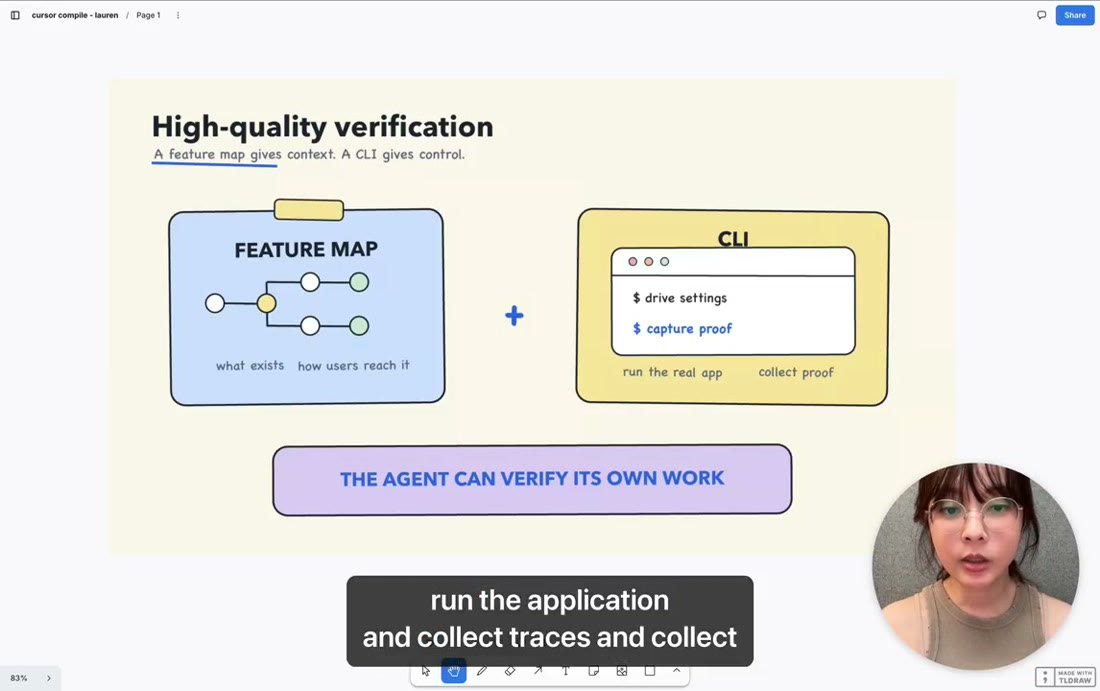
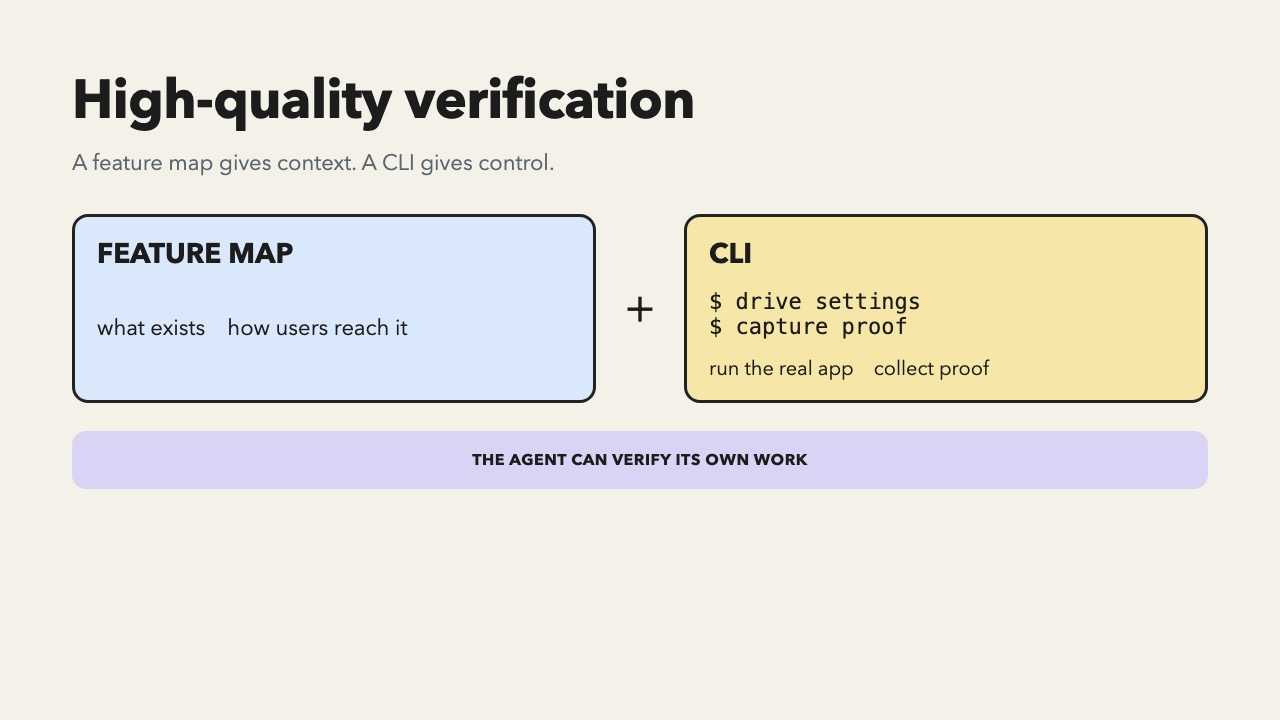
Poteto Paved Path: plain rewrite, and slides redrawn without the webcam.

diff --git a/wiki/Systems/Agentic Workflows/Poteto Paved Path.md b/wiki/Systems/Agentic Workflows/Poteto Paved Path.md
@@ -4,8 +4,9 @@ type: concept
 status: developing
 created: 2026-09-22
 updated: 2026-09-22
-description: "You trust an agent as far as you can leave it alone. A stronger prompt does not raise that trust. A file the next agent will copy, or a check that fails, does."
-method: page-generator-2026-09-22
+description: "Trust is how many agents you can leave alone. A harder prompt does not raise it. The codebase is the memory the next agent copies."
+method: plain-rewrite-2026-09-22
+prose-model: grok
 written-by: grok
 tags:
   - agents
@@ -16,173 +17,121 @@ tags:
 
 # Poteto Paved Path
 
-You can leave an agent alone only as far as you trust it. Trust grows when a file, or a check that fails the build, catches a mistake you would otherwise catch yourself. A stronger prompt does not grow that trust. The next agent opens the files. The next agent does not open the chat where you explained yourself more carefully.
-
-While you still have to watch every chat and correct it by hand, you can keep a handful of agents in front of you. Starting a large batch before a file or a check can reject a mistake spends the work on bad edits. Poteto Paved Path is the way up from that handful. Show that the result does the thing. Teach the method in a file the agent can load. Change the files so the easy edit is the correct one.
+Trust is how many agents you can leave alone. A harder prompt does not raise it, because the next agent opens the files and extends the pattern already there. The codebase is the memory.
 
 ## How do you trust an agent more?
 
-Verification comes first, then skills, then the arrangement of the files.
+Verification for correctness comes first. A feature map says what the app can do and how a person reaches it. A command runs the real app and saves the proof. Until those two exist, you are still the check.
 
-Verification answers a narrow question. Does the result do the thing a person came to do? A build that passes does not answer it. The agent needs a feature map and a command, kept beside the files. A feature map is a list of what a person can do, and how they reach each part, including which thing to click. A bug report is often a small picture and a few question marks. With the map, the agent can find the right part. Without the map, the agent can start the program and still guess. The command starts the real app and saves proof, a picture, a log, or a trace. A trace is a recording of where the app spent its time. The agent runs that same command every time. Until the map and the command exist, you are the person checking.
+High quality skills come next, and pstack is the example. The procedure lives in the repo, so the next session can load it. The agent can still skip it. You do not install pstack in order to copy someone else's pull-request count.
 
-Skills are written procedures the agent loads for a kind of job. pstack is a set of those procedures. One procedure says to reproduce the problem before changing anything, and to refuse to call the job done until the proof exists. A skill can still be skipped. A sentence you add to the prompt is easier to skip, and it is gone when the chat ends. A skill that lives with the files is there for the next agent. You do not install pstack in order to copy someone else's count of pull requests.
+Then you refactor the architecture so it is agent friendly. Agents like the shortcut, so the shortcut has to be the correct edit.
 
-Architecture comes third. Architecture means the way the files are arranged. An agent takes the short path. After you change the files, the short path is the path you left. The architecture work splits in two, and the split has two names.
+A greenfield program has no walls yet. The short edit becomes the structure, and the next agent copies it. Grok Bot started as that kind of prototype. Dune is what the app runs on now. Each kind of code has one folder and one job. A bad comment fails the build, because agents were treating the comment as permission to patch over the bug. A bad import fails the build.
 
-A brownfield program is an old program that already has walls. A new person cannot delete a live database. The folders already say where a change goes. A check already fails the build on a known mistake. An agent that copies those files stays inside the walls. Your work is to notice where agents still fall through, and to turn that fall into another wall.
+A brownfield program already has walls. A new person cannot delete the live database, and an agent that copies the files stays inside those walls. You add a wall where agents still fall through.
 
-A greenfield program is a new program with no walls yet. Each agent finishes an assignment by the shortest edit. The next agent copies that edit. The short edit becomes the structure of the program. Trust is hardest here, and this is also where you can still choose the structure before the copies spread. The Grok Bot app started this way, as a fast prototype. Agents like the shortcut, so the answer was to make the shortcut the correct edit. That answer is Dune, and Dune is what the Grok Bot app runs on now. Each kind of code has one folder and one job. A bad comment fails the build, because a comment had been read as permission to patch over a bug and the next agent copied both. A bad import fails the build. Dune is not published, and you do not need Dune's folder names. You can use the same answer without it. On a new program, you build the shortcut so that it is already the right edit. On an old program, you add a wall where agents keep taking the wrong shortcut.
-
-Someone has to stop a bad pattern before other agents copy it through the files. That job is called gardener. The spread is like weeds. One shortcut sends up copies, and the copies become the pattern. The slide gives the gardener three moves, in a row. Delete tech debt. Keep one paved path. Lint against anti-patterns. The lint can go in before the deletion is finished, so the spread stops while the cleanup is still going. The line under the boxes is "your team needs gardeners."
+A gardener stops the spread. It grows like weeds. You call it mold. The three moves are delete tech debt, keep one paved path, and lint against anti-patterns. Catch the mold while it is still one patch.
 
 ## Whenever you correct your agent
 
-The files are the best memory an agent has. An agent extends the pattern it already sees in those files. A workaround left in a file gets copied, and each copy makes the next copy more likely. A comment next to the workaround is read as a reason to keep it. You want the files in a state you would accept if the next agent copied them line for line.
+Put the correction as high on this list as it can go.
 
-When the same correction comes back, put it as high on this list as you can. The list is strongest at the top. A prompt is not on the list.
+1. Codebase. Change the files so the mistake cannot be written.
+2. Static analysis (lint/compiler/ci). Make the build fail.
+3. Rules/bugbot. A written rule can be skipped.
+4. Skills. A procedure in the repo can also be skipped.
+5. "Style guide." Only a person reading the change can apply it. A harder prompt lives here.
 
-1. Codebase. Change the files so the mistake cannot be written. One folder for that kind of change, or a shape of the data that has no room for the shortcut, is this step. The next agent copies the files, so the files are the correction.
+## Your code, and this wiki
 
-2. Static analysis, meaning a lint, the compiler, or CI. A lint is a check that reads the code and fails the build. The compiler is the tool that turns the code into a program and rejects code it cannot accept. CI is the set of checks that run when the code is pushed. You can add a lint before you have deleted every old copy. The lint stops the spread. Agents can then remove what the lint froze.
+The files you accept are the memory. A shortcut you leave is the pattern the next edit copies.
 
-3. Rules, and Bugbot. Bugbot is the reviewer that ships with Cursor, the editor the agent runs in, and Bugbot runs with the checks on a push. A written rule can be skipped. You can skip it too.
-
-4. Skills. A skill is a written procedure kept with the files, such as the pstack procedures above. The next agent can load it. The next agent can also skip it.
-
-5. "Style guide." The words are in quotes because only a person can apply a style guide, by reading the change and remembering to comment. When edits arrive faster than you can read every line, the guide does not hold the correction. A harder prompt lives here. It depends on you remembering it, and the next chat does not contain it.
-
-Start at the codebase. If you cannot change the files yet, make the build fail. Leave the style guide as the last place, not the first.
-
-## What you are taking from this
-
-The rule you are taking into your own code is that the codebase is the memory. The files you accept are what the next agent will extend. A shortcut you leave in those files is the pattern the next edit copies. You call that spread mold. The gardener's job, under your own name for it, is to catch the mold while it is still one patch, and to put the correction in the files or in a check before the copies take over.
-
-Your knowledge base is the same memory, in pages. The next session opens the wiki pages and extends the pattern already in them. A harder prompt about a wiki page does not enter those pages. A bad sentence you leave in place is the mold the next draft extends.
-
-On the list above, an accepted wiki page is the codebase. The two checks are the static analysis. One check rejects a sentence that points at a thing the wiki page never named. The other rejects a sentence that points at where the words came from, instead of saying what is true. Both checks live with the files, so both are still there when the chat is gone. A harder prompt is the style guide. It is the last place, and it is the place you already know does not hold. The checks do not know whether the wiki page is the explanation you meant. You still open the wiki page and read it. A wiki page is ready after you have read it.
-
-The pages you have already accepted, and those two checks, are the brownfield. A page you have not named is the greenfield. You name the page, and you say what it has to explain, before a draft starts. The model may draft the wiki page, add links to other pages, and add a log line. The model does not open the next wiki page for you, and the model does not start a wiki page you did not name. You are still the person who opens a wiki page to see whether the explanation is right, so you do not add a batch of agents while you are still that person.
+On this wiki, the pages you have already accepted are the brownfield, along with two checks. `scripts/holdings.py` rejects a sentence that points at something the page never named. `scripts/source-words-check.py` rejects a sentence that points at where the words came from. A page you have not named is the greenfield. You name it, you open it, and you read it. A bad sentence left in place is mold.
 
 ## Building a Michelin kitchen
 
-The picture for what happens after the files can hold an agent is a kitchen. The slide is titled "building a michelin kitchen / software factory." The factory half is the picture to drop. A factory sounds like output with nobody responsible for the plate. A Michelin kitchen is the picture to keep. You set the kitchen up. You are no longer cooking each part yourself. You are still responsible for what goes out.
+The picture for the outer loop is a Michelin kitchen, not a software factory. You still answer for the plate. You are no longer cooking each part yourself.
 
-The slide has three stations.
+Grok Bot is the line cook. It watches Slack, Sentry, Datadog, and PlanetScale, and starts the next station.
 
-Grok Bot is the line cook, one agent on one job. The slide marks it new. Grok Bot can call Slack, the team chat, and Sentry, Datadog, and PlanetScale. Sentry collects error reports. Datadog collects metrics. PlanetScale hosts a database. A routine, a saved watch inside Grok Bot, subscribes to a Slack thread or an error alert and starts the next station. You do not keep a second system that has memorized the company. The agent calls the tools.
+Cloud agents are a separate computer. They keep working after the laptop is closed and open a pull request.
 
-Cloud agents are the cooks at their own benches. A cloud agent is a separate computer. It copies a git repository, edits it, and opens a pull request. It keeps working after the laptop is closed.
+Automations and the Agent SDK are the team. They start agents from events, on the same skills.
 
-Automations and the Agent SDK are the team, the facility around the cooks. They start agents from events, on the same skills, without you opening each chat.
-
-This kitchen comes after a correction survives without you in the chat. A helper does not merge, and a helper does not write wiki pages. You merge code. You read pages. On the wiki you are not in that kitchen yet, because you are still the person who opens the page to see whether it is right.
+You are not in that kitchen on this wiki yet, because you still open the page. A helper does not merge. You merge.
 
 ## The slides
 
-The frames below are the slides, in the order they appear. Most of them still have the speaker in the corner. The words under each frame are the words on that slide.
+Redrawn from the deck, in order. The words on each slide are the words from the original.
 
 ### Agenda
 
-Trust. How to trust your agents more. Your codebase is memory. Automations.
-
-![Agenda: trust, how to trust your agents more, your codebase is memory, automations](poteto-slides/01-agenda.jpg)
+![Agenda](poteto-slides/01-agenda.jpg)
 
 ### Michelin kitchen
 
-The opening picture. The caption on screen is that a Michelin kitchen is the better analogy.
-
-![Michelin kitchen, a cook at a pass with small cooks at the stations](poteto-slides/02-michelin-kitchen.jpg)
+![Michelin kitchen](poteto-slides/02-michelin-kitchen.jpg)
 
 ### Five thousand pull requests
 
-Three contribution graphs, and the line "i shipped 5000+ PRs in 6 months."
-
-![Three contribution graphs and the caption i shipped 5000+ PRs in 6 months](poteto-slides/03-five-thousand-prs.jpg)
+![5000 plus PRs](poteto-slides/03-five-thousand-prs.jpg)
 
 ### Trust and the number of agents
 
-The vertical axis is trust. The horizontal axis is the number of agents: 1, 1 to 5, 5 to 10, 10 to 20, hundreds, thousands. The curve rises fast, then flattens.
-
-![A curve of trust against number of agents, rising fast then flattening](poteto-slides/04-trust-curve.jpg)
+![Trust curve](poteto-slides/04-trust-curve.jpg)
 
 ### How do I trust my agents more?
 
-Verification for correctness. High quality skills that teach agents to work like real software engineers, for example pstack. Refactoring or rewriting the architecture to be agent friendly, with the grey note "greenfield vs brownfield."
-
-![Three bullets: verification for correctness, skills such as pstack, and an agent-friendly architecture](poteto-slides/05-how-to-trust.jpg)
+![How do I trust my agents more](poteto-slides/05-how-to-trust.jpg)
 
 ### High-quality verification
 
-A feature map gives context. A CLI gives control. The map is what exists and how users reach it. The command line shows `$ drive settings` and `$ capture proof`, run the real app, collect proof. The result line is "THE AGENT CAN VERIFY ITS OWN WORK."
-
-![Feature map plus a CLI, and the line the agent can verify its own work](poteto-slides/06-feature-map.jpg)
+![Feature map and CLI](poteto-slides/06-feature-map.jpg)
 
 ### Whenever you correct your agent
 
-1. codebase. 2. static analysis (lint/compiler/ci). 3. rules/bugbot. 4. skills. 5. "style guide."
-
-![The five places a correction can go, codebase first and style guide last in quotes](poteto-slides/07-whenever-you-correct.jpg)
+![Whenever you correct your agent](poteto-slides/07-whenever-you-correct.jpg)
 
 ### Your codebase is memory
 
-One workaround, then arrows labeled copy, then the pattern. "Each copy makes the next copy likelier."
-
-![One workaround copied until it becomes the pattern](poteto-slides/08-codebase-is-memory.jpg)
+![Your codebase is memory](poteto-slides/08-codebase-is-memory.jpg)
 
 ### Gardeners
 
-Delete tech debt. Keep one paved path. Lint against anti-patterns. "your team needs gardeners."
-
-![Three boxes: delete tech debt, keep one paved path, lint against anti-patterns](poteto-slides/09-gardener.jpg)
+![Gardener](poteto-slides/09-gardener.jpg)
 
 ### Dune
 
-"Architecture for agent-sized context." "A narrow local edit can stay correct for the whole Electron app."
-
-![Dune, architecture for agent-sized context, beside the kitchen picture](poteto-slides/10-dune.jpg)
+![Dune](poteto-slides/10-dune.jpg)
 
 ### Five nouns
 
-Each noun has one place in the tree and one job at runtime. Feature, one owned folder for product UI. Entrypoint, one view a user can open. Transcript card, the feature-owned body for one entry type. Client, durable renderer state behind hooks and commands, marked one writer. Host, always-on behavior behind a typed contract.
-
-![Five nouns around a Dune app: Feature, Entrypoint, Transcript card, Client, Host](poteto-slides/11-five-nouns.jpg)
+![Five nouns](poteto-slides/11-five-nouns.jpg)
 
 ### Process boundaries
 
-A folder tells an agent where code runs and which imports are legal. The renderer holds Feature UI, Navigation, and Client. A typed edge sits in the middle. Serving processes hold Host extensions and Electron main.
-
-![Renderer on one side, a typed edge, and serving processes on the other](poteto-slides/12-process-boundaries.jpg)
+![Process boundaries](poteto-slides/12-process-boundaries.jpg)
 
 ### A feature adds files, not registry branches
 
-Reserved filenames turn the nearby folder into the complete contribution. Build discovers the files. Start validates one catalog. Open loads the view. A shared registry is crossed out. Two agents can add different feature folders without editing the same root. Above that, one writer per durable value, and stale attempts lose by key so a reconnect converges instead of duplicating.
-
-![A feature folder of reserved files, discovered, validated, and loaded, with a shared registry crossed out](poteto-slides/13-feature-adds-files.jpg)
+![A feature adds files](poteto-slides/13-feature-adds-files.jpg)
 
 ### Host-backed feature blueprint
 
-A vertical slice keeps transport, durable state, and React in their named owners. Feature UI, Client, shared edge, Host extension. The component never handles IPC channels, host peer lookup, retry ordering, or process startup. Agent-friendly means a correct open-file edit preserves the whole app's invariants.
-
-![Four boxes in a row: Feature UI, Client, shared edge, Host extension](poteto-slides/14-host-backed-blueprint.jpg)
+![Host-backed feature blueprint](poteto-slides/14-host-backed-blueprint.jpg)
 
 ### The three stations
 
-The title is "building a michelin kitchen / software factory." The bullets are Grok Bot, marked new, cloud agents, and automations and the Agent SDK. The small labels put Grok Bot as the line cook, an individual automation, and automations with the Agent SDK as the team.
+![Kitchen stations](poteto-slides/15-kitchen-stations.jpg)
 
-![Kitchen picture beside grok bot, cloud agents, and automations and the Agent SDK](poteto-slides/15-kitchen-stations.jpg)
+### Benny
 
-### A bot reproducing a report
-
-A Slack thread. Benny, a bot, reports that a bug was reproduced and is already fixed on main.
-
-![A Slack thread where Benny reports a bug reproduced and already fixed on main](poteto-slides/16-benny-thread.jpg)
+![Benny](poteto-slides/16-benny-thread.jpg)
 
 ### The close
 
-The same five places, shown again as the takeaway. Codebase, static analysis, rules and Bugbot, skills, "style guide."
-
-![The closing list of the five places a correction goes](poteto-slides/17-closing-list.jpg)
+![Closing list](poteto-slides/17-closing-list.jpg)
 
 ## Related pages
 
